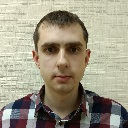
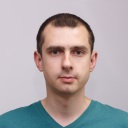
Update author image

diff --git a/contact/index.html b/contact/index.html
@@ -50,7 +50,7 @@ title: Contact
                     </dl>
                 </div>
                 <div class="col-sm-3">
-                    <img src="/assets/images/author.jpg" alt="{{ site.author.name }}" width="128" height="128" class="pull-right hidden-xs" />
+                    <img src="/assets/images/author.jpg?v2" alt="{{ site.author.name }}" width="128" height="128" class="pull-right hidden-xs" />
                 </div>
             </div>
         </div>
